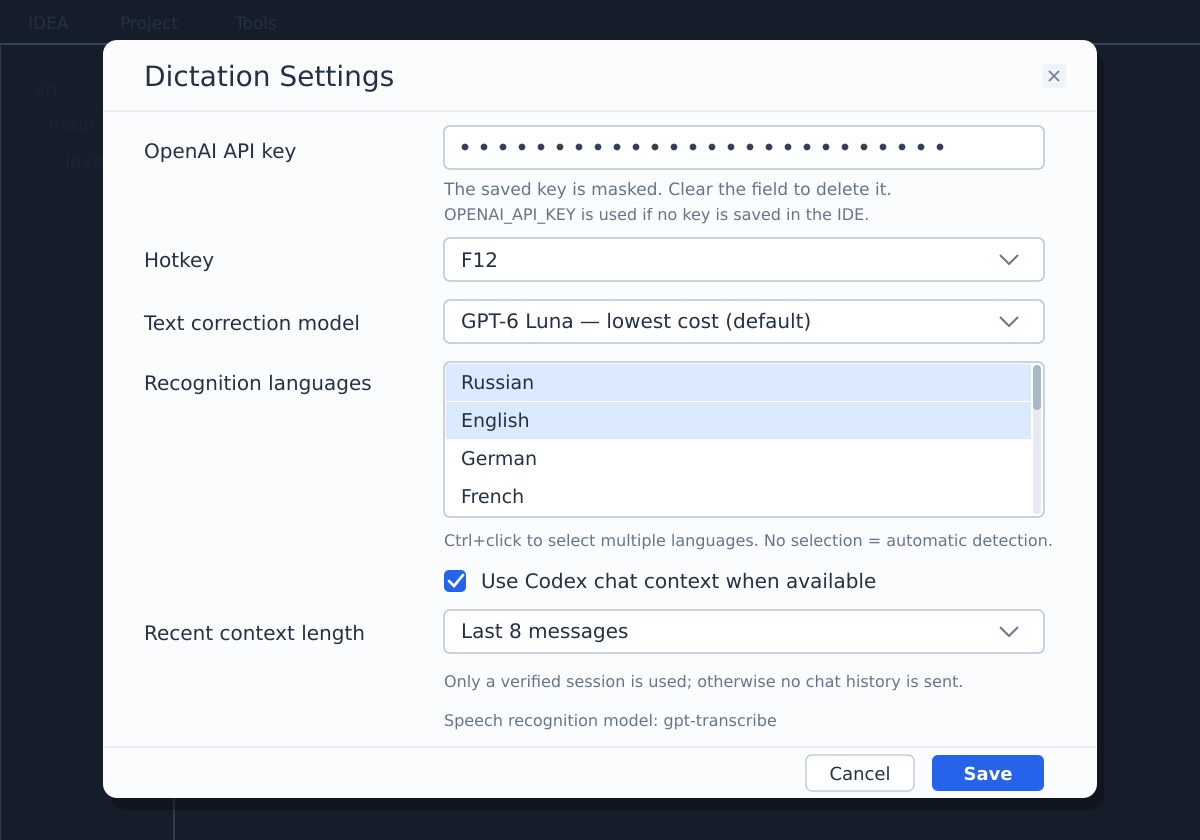
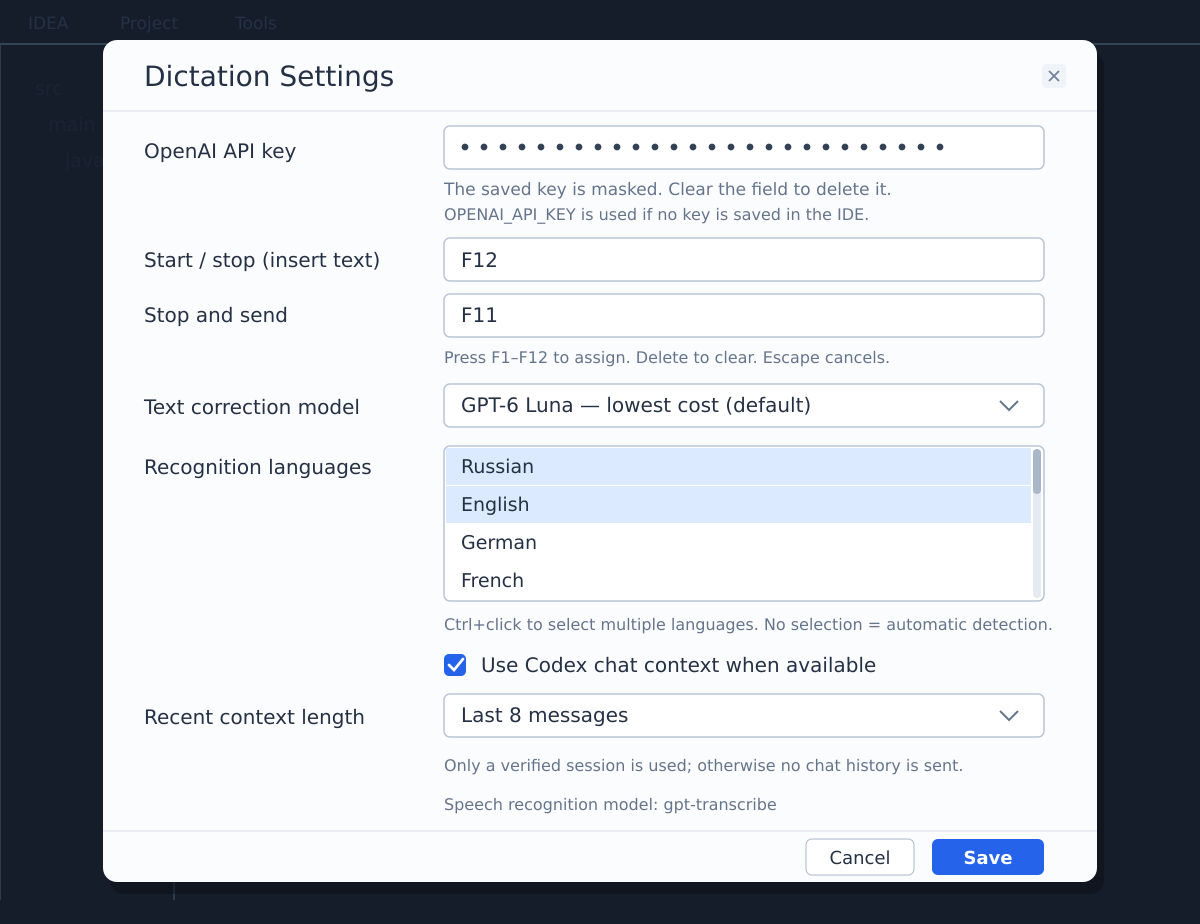
Update Dictate portfolio card and settings preview for two-key workflow

diff --git a/index.html b/index.html
@@ -237,12 +237,12 @@
             <div>
               <h3>IDEA ChatGPT Dictate — voice input for Codex in IntelliJ IDEA</h3>
               <p>Windows voice typing often struggles with mixed-language programming terminology. I built an open-source IntelliJ plugin that uses OpenAI speech recognition and source-code-aware correction to dictate clear prompts directly into Codex.</p>
-              <p>Version 1.0 supports multiple recognition languages, a configurable F1–F12 shortcut, localized settings, and quiet progress messages in the IDE status bar.</p>
+              <p>Version 1.0 supports multiple recognition languages, two configurable F1–F12 shortcuts (insert or send), Escape cancellation, localized settings, and quiet progress updates in the IDE status bar.</p>
               <p class="project-links"><a href="https://github.com/ilinic/IDEA_ChatGPT_Dictate">GitHub — source code and releases</a></p>
             </div>
-            <figure class="project-gallery project-gallery-light" style="--gallery-ratio: 10 / 7;" data-gallery data-gallery-title="IDEA ChatGPT Dictate" aria-label="IDEA ChatGPT Dictate English settings dialog preview">
+            <figure class="project-gallery project-gallery-light" style="--gallery-ratio: 100 / 77;" data-gallery data-gallery-title="IDEA ChatGPT Dictate" aria-label="IDEA ChatGPT Dictate English settings dialog preview">
               <button class="project-image-button" type="button" aria-label="Enlarge IDEA ChatGPT Dictate settings preview" aria-haspopup="dialog">
-                <img class="gallery-slide" src="assets/projects/idea-chatgpt-dictate/settings-en.png" width="1200" height="840" loading="lazy" alt="English-language preview of IDEA ChatGPT Dictate settings with masked API key, F12 hotkey, model selection, recognition languages, and optional Codex context" data-caption="English settings dialog (illustrative preview)">
+                <img class="gallery-slide" src="assets/projects/idea-chatgpt-dictate/settings-en.png" width="1200" height="924" loading="lazy" alt="English-language preview of IDEA ChatGPT Dictate settings with masked API key, separate insert and send shortcuts, recognition languages, model selection and optional Codex context" data-caption="English settings dialog (illustrative preview)">
               </button>
               <figcaption class="gallery-controls" hidden>
                 <button type="button" data-previous aria-label="Previous IDEA ChatGPT Dictate image">&#8592;</button>
